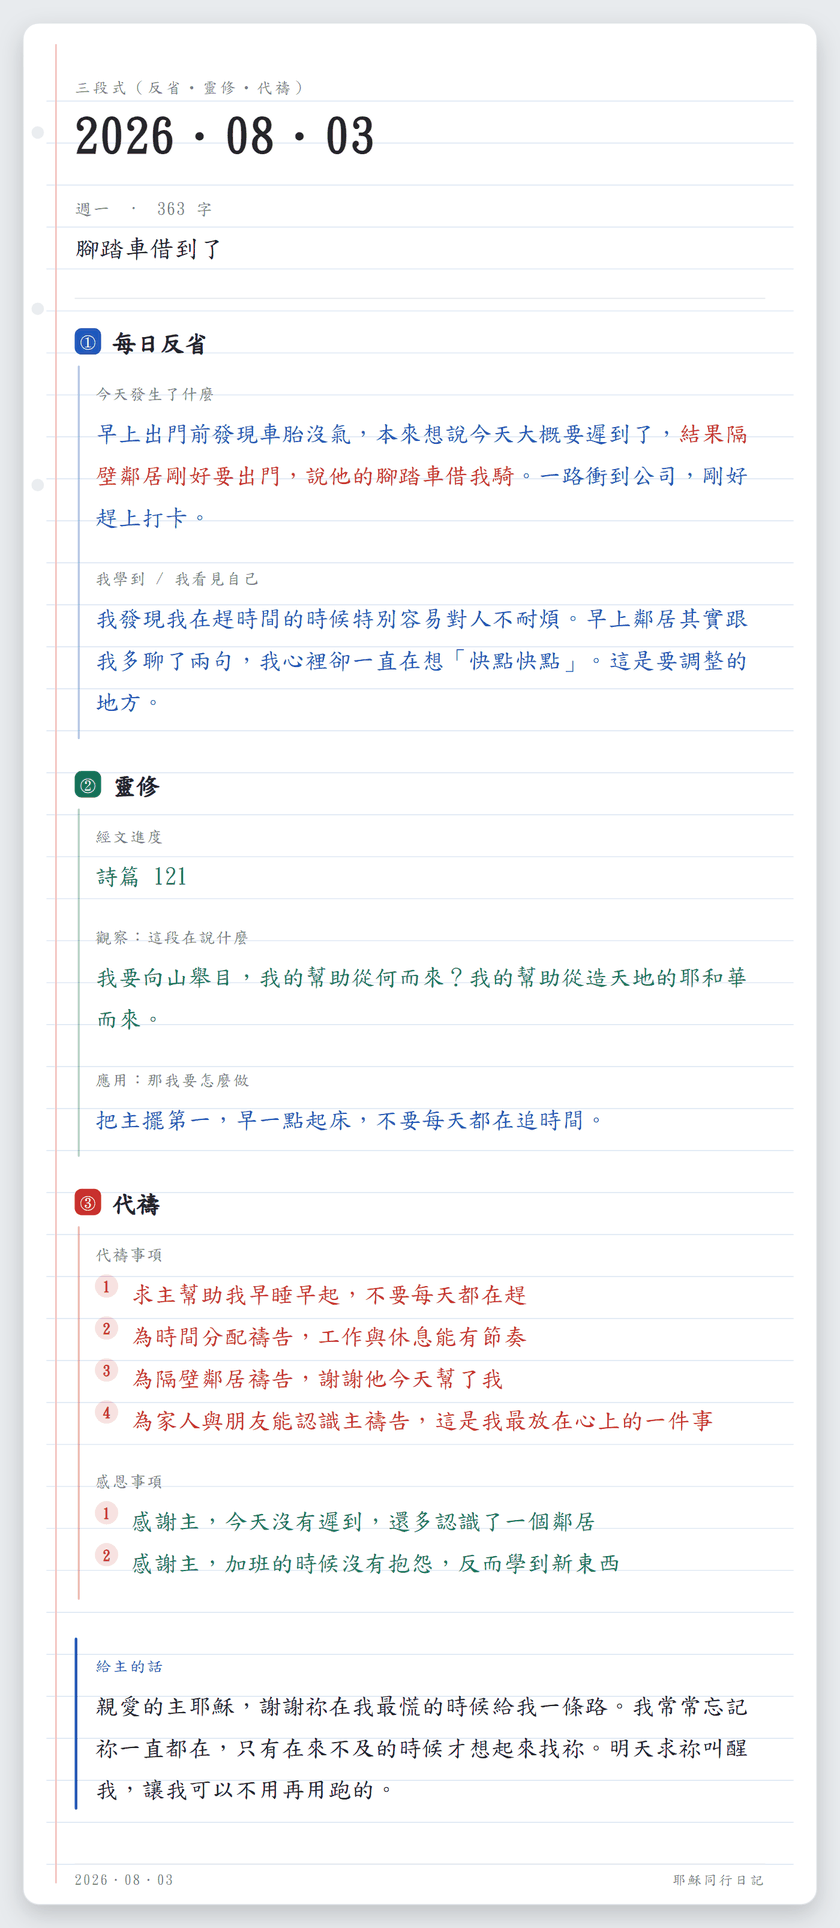
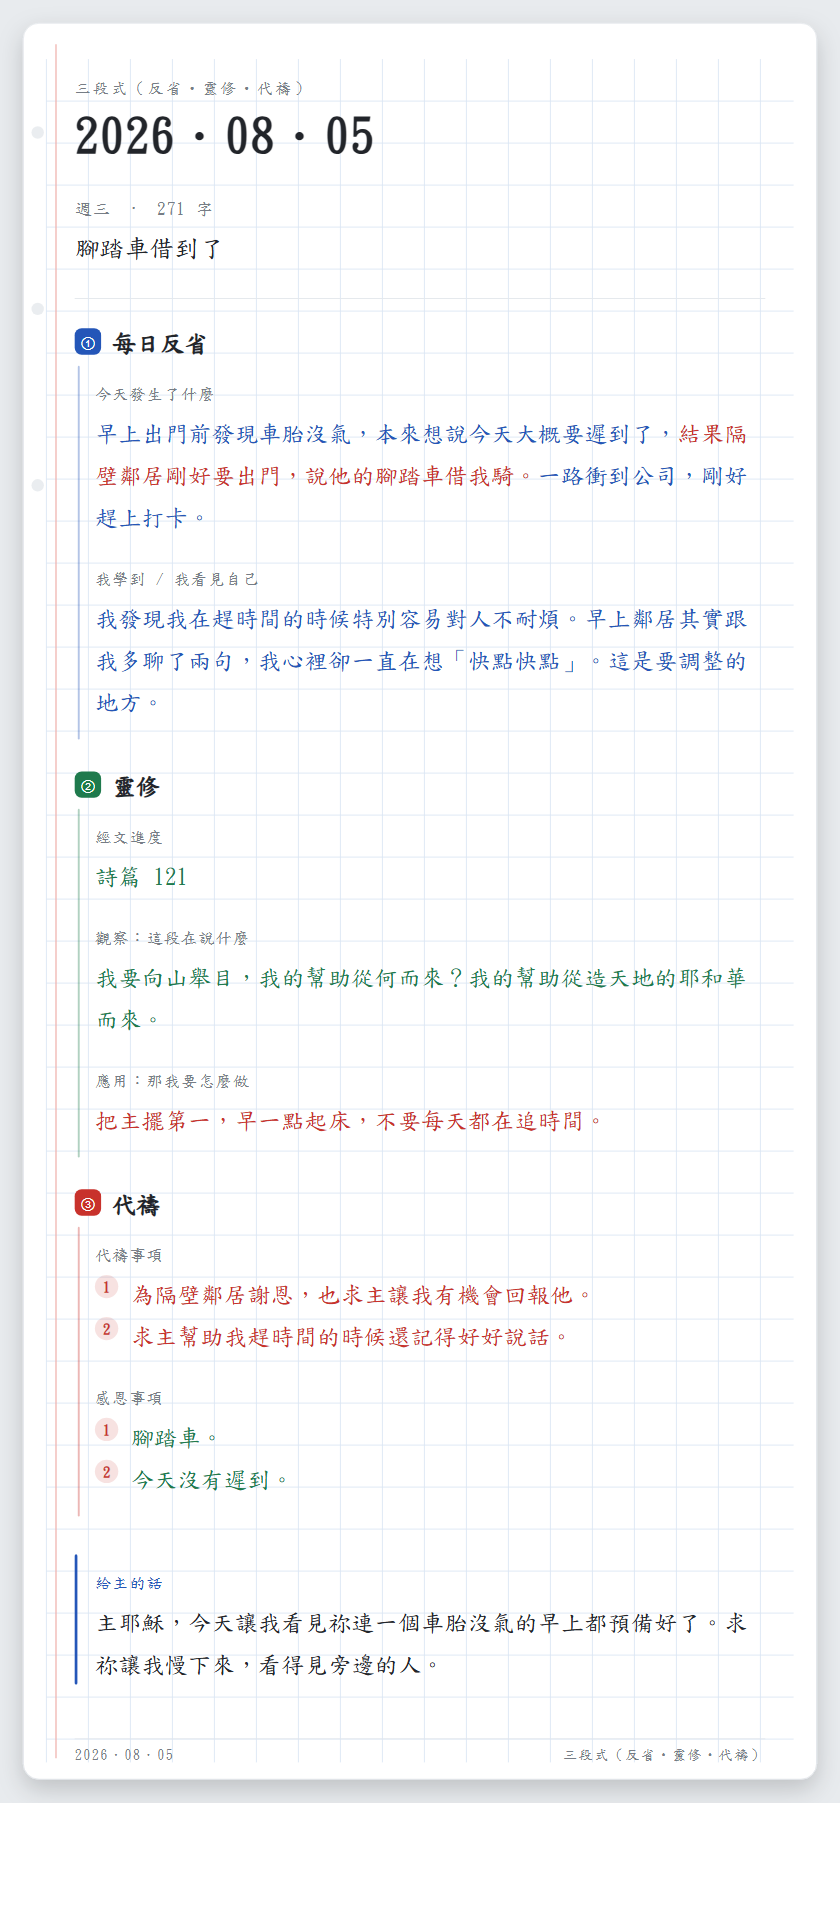
Retake the screenshots; card footer follows the template too
The images still showed the old header and a five-item sidebar. Regenerated
against the current app from a throwaway data directory, with the same
invented day the previous set used, at the same dimensions.

While comparing them: the SVG card had its own hard-coded footer, missed
when the page layouts were changed to print the template name. It now
matches them.

diff --git a/app/render/card_svg.py b/app/render/card_svg.py
@@ -453,7 +453,8 @@ def render_document_svg(
         f'<text x="{g.content_x + g.content_w:.1f}" y="{footer_y:.1f}" '
         f'text-anchor="end" font-family="{_fonts(theme.body_font)}" '
         f'font-size="{18 * s:.1f}" fill="{theme.ink_muted}" '
-        f'letter-spacing="{2 * s:.2f}">耶穌同行日記</text>'
+        f'letter-spacing="{2 * s:.2f}">'
+        f"{xml_escape(doc.template_name)}</text>"
     )
 
     return (
